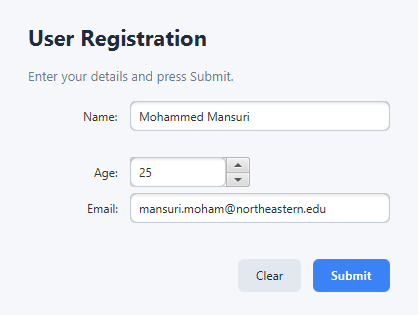
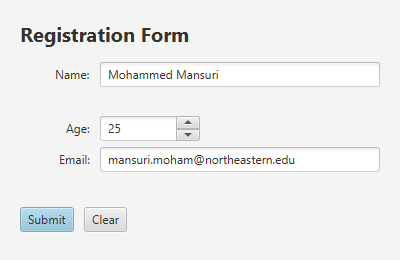
lab 5

diff --git a/src/ui/FXMain.java b/src/ui/FXMain.java
@@ -1,7 +1,5 @@
 package ui;
 
-import java.net.URL;
-
 import javafx.application.Application;
 import javafx.fxml.FXMLLoader;
 import javafx.scene.Parent;
@@ -21,16 +19,10 @@ public class FXMain extends Application {
     @Override
     public void start(Stage primaryStage) throws Exception {
         Parent root = FXMLLoader.load(getClass().getResource("MainFXML.fxml"));
+        Scene scene = new Scene(root, 400, 260);
 
-        Scene scene = new Scene(root);
-        URL css = getClass().getResource("app.css");
-        if (css != null) {
-            scene.getStylesheets().add(css.toExternalForm());
-        }
-
-        primaryStage.setTitle("Lab 5 - JavaFX MVC Form");
+        primaryStage.setTitle("Registration Form");
         primaryStage.setScene(scene);
-        primaryStage.setResizable(false);
         primaryStage.show();
     }
 
